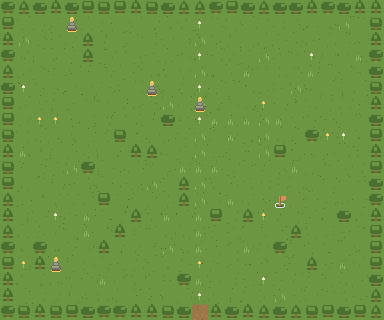
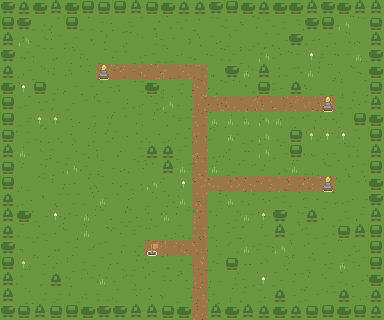
feat: 지역에 표식으로 이어지는 길을 냈다
표식이 보이게 됐지만 지형이 뚫려 있어서 들판을 가로질러 갈 수 있었다.
길을 따라간다는 느낌이 없으면 지역이 그냥 넓은 마당이다.

- 입구에서 북쪽으로 **등뼈**를 세우고, 거기서 각 표식으로 **가지**를 뻗는다
- 노드를 무작위로 뿌리지 않는다. 세로로 구간을 나눠 하나씩 놓아
  한쪽에 몰리지 않게 한다. 입구에서 멀어질수록 안쪽에 놓인다
- 장애물은 길과 표식 자리를 비켜 간다. 길이 막히는 일이 없다
- 길은 흙길로 그린다. 마을의 길과 같은 결이라 '여기가 통로'로 읽힌다

**길을 낸다고 가둬 두지는 않았다.** 장애물은 성기고 들판도 걸어진다.
길은 안내이지 벽이 아니다.

scripts/check-region.ts 를 만들었다. 여섯 지역 전부에서 입구부터
너비 우선으로 훑어 모든 표식에 걸어 닿는지 확인한다 — 손으로 돌아다니며
찾는 것보다 확실하다. 지금 여섯 지역 모두 통과한다.

diff --git a/src/data/maps/region.ts b/src/data/maps/region.ts
@@ -70,51 +70,72 @@ export function buildRegionMap(regionId: string): TileMapData {
     put(W - 1, y, look.block, true);
   }
 
-  // 흩어진 장애물. 길이 막히지 않게 성기게 둔다
-  for (let i = 0; i < 26; i++) {
-    const x = rng.int(2, W - 3);
-    const y = rng.int(2, H - 3);
-    if (x === ENTRY_X) continue; // 입구에서 북쪽으로 난 길은 비워 둔다
+  /**
+   * ── 노드 자리 정하기 ──
+   *
+   * 전리품 2~3 + 사건 1 (§11). 무작위로 뿌리면 한쪽에 몰려서
+   * 지도의 절반이 빈 들판이 된다. 세로로 구간을 나눠 하나씩 놓는다.
+   */
+  const total = rng.int(NODE_COUNT.min, NODE_COUNT.max);
+  const lootCount = total - 1;
+  const band = Math.floor((H - 4) / total);
+
+  const spots: { x: number; y: number }[] = [];
+  for (let i = 0; i < total; i++) {
+    // 입구에서 먼 쪽부터 채운다. 안쪽으로 들어갈수록 볼 게 있어야 한다
+    const y = 2 + i * band + rng.int(0, Math.max(0, band - 1));
+    const left = rng.chance(0.5);
+    const x = left ? rng.int(2, ENTRY_X - 2) : rng.int(ENTRY_X + 2, W - 3);
+    spots.push({ x, y: Math.min(y, H - 4) });
+  }
+
+  /**
+   * ── 길 내기 ──
+   *
+   * 입구에서 북쪽으로 등뼈를 하나 세우고, 거기서 각 표식으로 가지를 뻗는다.
+   * 길이 없으면 표식이 보여도 들판을 가로지르게 되어 걷는 맛이 없다.
+   */
+  const trail = new Set<string>();
+  const carve = (x: number, y: number) => {
+    trail.add(`${x},${y}`);
+    put(x, y, 'path', false);
+  };
+
+  const spineTop = Math.min(...spots.map((s) => s.y));
+  for (let y = H - 2; y >= spineTop; y--) carve(ENTRY_X, y);
+
+  for (const spot of spots) {
+    const step = spot.x < ENTRY_X ? -1 : 1;
+    for (let x = ENTRY_X; x !== spot.x + step; x += step) carve(x, spot.y);
+  }
+
+  // 흩어진 장애물. 길과 표식 자리는 비켜 간다
+  for (let i = 0; i < 30; i++) {
+    const x = rng.int(1, W - 2);
+    const y = rng.int(1, H - 2);
+    if (trail.has(`${x},${y}`)) continue;
     put(x, y, look.block, true);
   }
 
-  // 입구에서 위로 뻗는 길은 반드시 열어 둔다
-  for (let y = 1; y < H - 1; y++) put(ENTRY_X, y, look.accent, false);
   put(ENTRY_X, H - 1, 'gateway', false);
 
   const objects: MapObject[] = [
     { id: 'exit', type: 'gateway', x: ENTRY_X, y: H - 1, target: 'town', solid: false },
   ];
 
-  // ── 사건 노드 ──────────────────────────────────────
-  // 전리품 노드 2~3 + 사건 노드 1 (§11)
-  const total = rng.int(NODE_COUNT.min, NODE_COUNT.max);
-  const lootCount = total - 1;
-
-  const taken = new Set<string>();
-  for (let i = 0; i < total; i++) {
-    let x = 0;
-    let y = 0;
-    let tries = 0;
-    do {
-      x = rng.int(1, W - 2);
-      y = rng.int(1, H - 3);
-      tries += 1;
-    } while ((collision[at(x, y)] === true || taken.has(`${x},${y}`)) && tries < 60);
-
-    if (collision[at(x, y)] === true) continue;
-    taken.add(`${x},${y}`);
-
+  spots.forEach((spot, i) => {
+    // 길 위에 놓았으니 막힐 일이 없다
+    collision[at(spot.x, spot.y)] = false;
     objects.push({
       id: `node-${i}`,
       type: 'node',
-      x,
-      y,
+      x: spot.x,
+      y: spot.y,
       // 밟으면 판정이다 (§11). 막지 않는다
       solid: false,
       nodeKind: i < lootCount ? 'loot' : 'event',
     });
-  }
+  });
 
   return { id: regionMapId(regionId), width: W, height: H, ground, deco, collision, objects };
 }

diff --git a/scripts/check-region.ts b/scripts/check-region.ts
@@ -1,0 +1,58 @@
+/**
+ * 지역 배치 점검 — 빌드 도구다.
+ *
+ *   npx tsx scripts/check-region.ts [지역id]
+ *
+ * 표식이 정말 길 위에 있고 입구에서 걸어 닿는지 확인한다.
+ * 손으로 돌아다니며 찾는 것보다 이쪽이 확실하다.
+ */
+
+import { buildRegionMap, REGION_ENTRY } from '../src/data/maps/region';
+import { isBlocked } from '../src/systems/map';
+import { REGIONS } from '../src/data/regions';
+
+const only = process.argv[2];
+const ids = only === undefined ? REGIONS.map((r) => r.id) : [only];
+
+let allOk = true;
+
+for (const id of ids) {
+  const map = buildRegionMap(id);
+  const nodes = map.objects.filter((o) => o.nodeKind !== undefined);
+
+  // 입구에서 막히지 않은 칸을 전부 훑는다
+  const seen = new Set<string>([`${REGION_ENTRY.x},${REGION_ENTRY.y}`]);
+  const queue = [{ x: REGION_ENTRY.x, y: REGION_ENTRY.y }];
+  while (queue.length > 0) {
+    const cur = queue.shift();
+    if (cur === undefined) break;
+    for (const [dx, dy] of [
+      [0, 1],
+      [0, -1],
+      [1, 0],
+      [-1, 0],
+    ] as const) {
+      const x = cur.x + dx;
+      const y = cur.y + dy;
+      const key = `${x},${y}`;
+      if (seen.has(key) || isBlocked(map, x, y)) continue;
+      seen.add(key);
+      queue.push({ x, y });
+    }
+  }
+
+  const unreachable = nodes.filter((n) => !seen.has(`${n.x},${n.y}`));
+  const ok = unreachable.length === 0;
+  if (!ok) allOk = false;
+
+  console.log(
+    `${ok ? 'OK ' : '실패'} ${id.padEnd(8)} 노드 ${nodes.length}개  ` +
+      `걸을 수 있는 칸 ${seen.size}/${map.width * map.height}  ` +
+      nodes.map((n) => `${n.nodeKind === 'loot' ? '전리품' : '사건'}(${n.x},${n.y})`).join(' '),
+  );
+  if (!ok) {
+    console.log(`   닿지 않는 노드: ${unreachable.map((n) => `(${n.x},${n.y})`).join(' ')}`);
+  }
+}
+
+if (!allOk) process.exitCode = 1;
